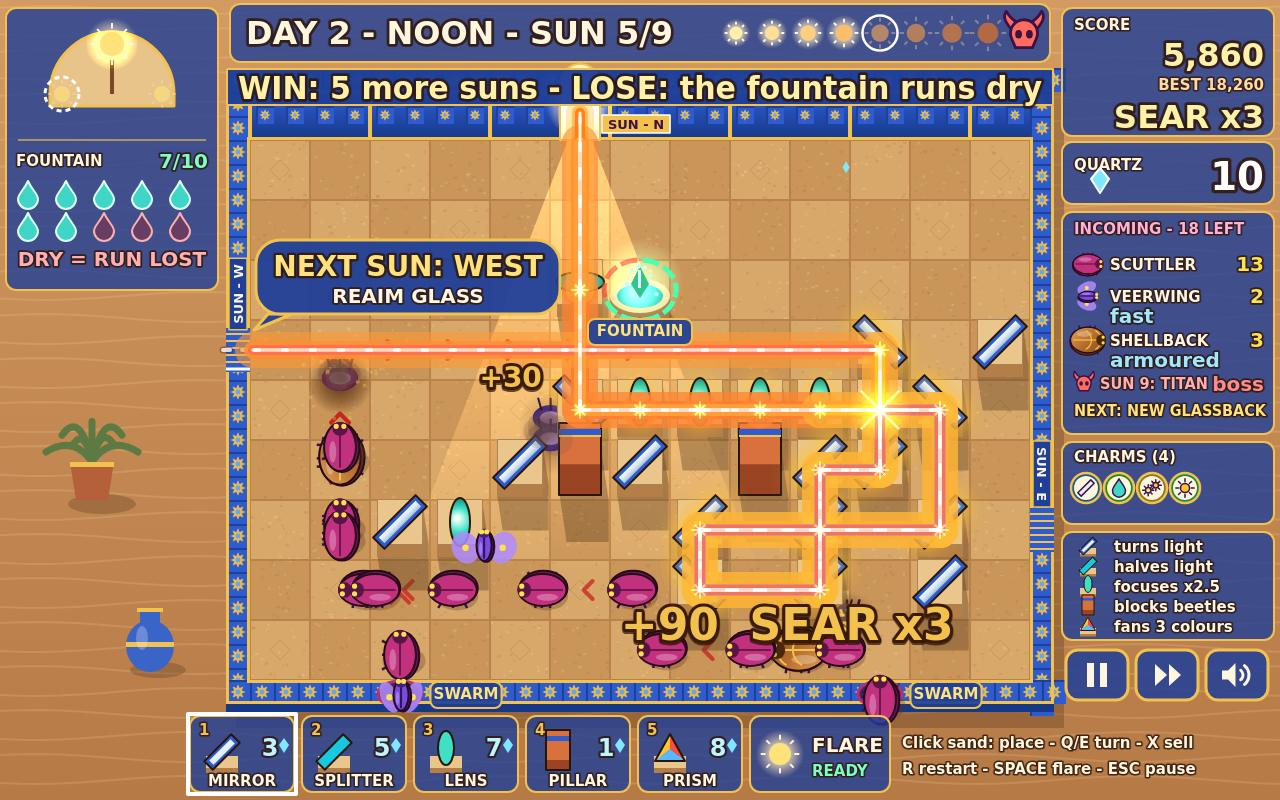
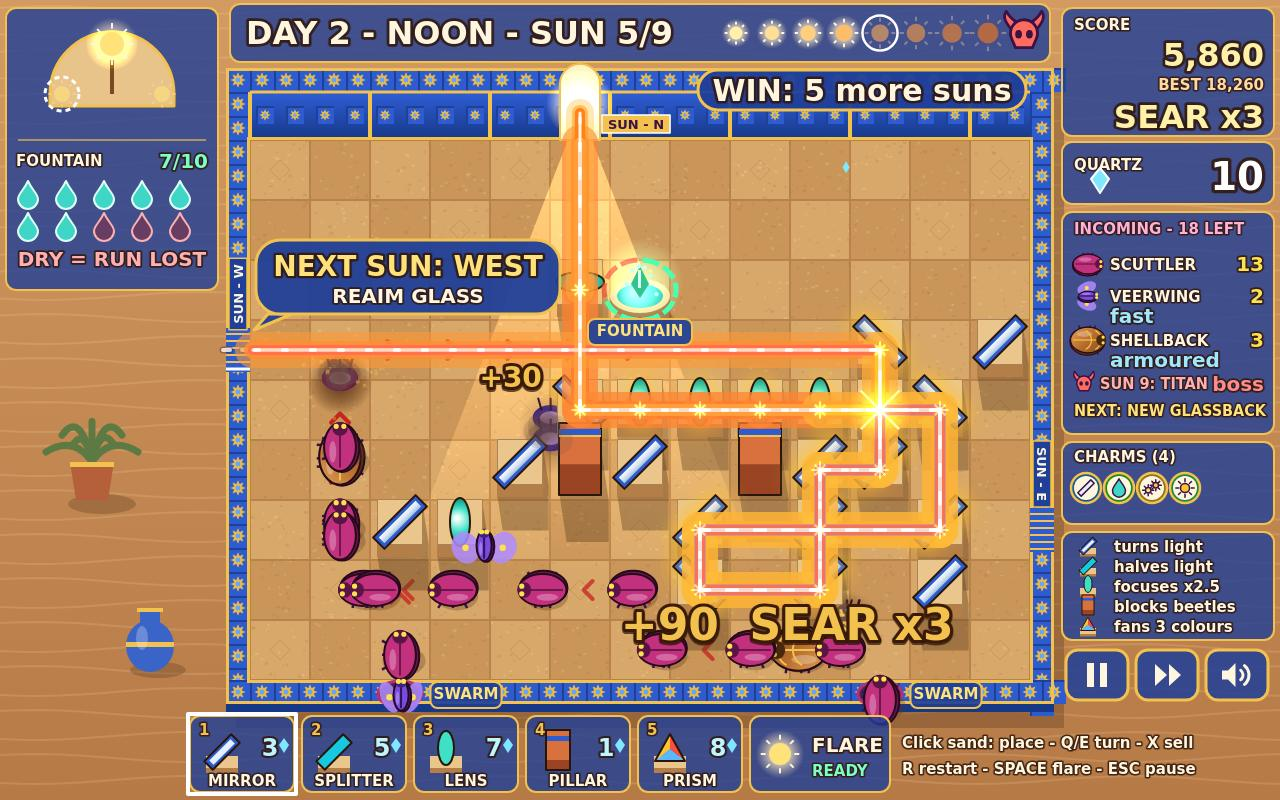
Cover: WIN/LOSE frieze becomes a WIN: n more suns pill on the top wall, clear of the live gate (lose rule stays as DRY = RUN LOST); for the A/B

Changed region(s): [[0.1562, 0.0625, 0.8438, 0.1562]]

diff --git a/game/src/render/hud.js b/game/src/render/hud.js
@@ -7,7 +7,7 @@ import { boonById } from '../draft.js';
 import { beamModsFor } from '../beams.js';
 import { chainMultiplier, chainWindow } from '../combat.js';
 import { enemiesRemaining, liftRefund, pieceCost, pieceUnlocked } from '../sim.js';
-import { winLoseHeadline } from '../announce.js';
+import { winHeadline } from '../announce.js';
 import { sunApertureFor } from '../sun.js';
 import { nextSunPreview, waveRoster } from '../waves.js';
 import { drawEnemy } from './beetles.js';
@@ -421,17 +421,43 @@ function drawComboLine(ctx, run, x0, y) {
 }
 
 
-/** The win and lose rule, inscribed along the north wall under the banner. */
-function drawWinLoseFrieze(ctx, run) {
-  const line = winLoseHeadline(run);
-  const x = BOARD_X - WALL;
-  const w = BOARD_W + WALL * 2;
-  ctx.fillStyle = 'rgba(31,63,153,0.96)';
-  ctx.fillRect(x, 68, w, 38);
+/** The WIN pill's box as last drawn (for the screenshot checks). */
+let winPillBox = null;
+export function lastWinPill() {
+  return winPillBox;
+}
+
+/**
+ * WIN: n more suns, a pill on the north wall (<= 55% of the board wide), on the wider side of the live
+ * north gate and its SUN tag so the gate and its beam stay in view; the lose rule is DRY = RUN LOST.
+ */
+function drawWinPill(ctx, run) {
+  const str = winHeadline(run);
+  ctx.font = `900 30px ${FONT}`;
+  let w = Math.min(BOARD_W * 0.55, ctx.measureText(str).width + 32);
+  const h = 40;
+  let cx = BOARD_X + BOARD_W / 2;
+  const ap = run.aperture;
+  if (ap.wall === 'north') {
+    const gate0 = BOARD_X + ap.c * CELL - 4;
+    const gate1 = BOARD_X + (ap.c + 1) * CELL + 84;
+    const left = gate0 - BOARD_X;
+    const right = BOARD_X + BOARD_W - gate1;
+    const room = Math.max(left, right) - 8;
+    w = Math.min(w, room);
+    cx = left >= right ? gate0 - 4 - room / 2 : gate1 + 4 + room / 2;
+  }
+  const x = Math.round(cx - w / 2);
+  const y = 70;
+  ctx.fillStyle = 'rgba(31,63,153,0.94)';
+  ctx.beginPath();
+  ctx.roundRect(x, y, w, h, h / 2);
+  ctx.fill();
   ctx.strokeStyle = GOLD;
-  ctx.lineWidth = 2;
-  ctx.strokeRect(x + 1, 69, w - 2, 36);
-  fitLine(ctx, line, 640, 99, w - 24, 32, '#FFF2A8', 'center');
+  ctx.lineWidth = 3;
+  ctx.stroke();
+  fitLine(ctx, str, x + w / 2, y + 31, w - 20, 30, INK, 'center');
+  winPillBox = { x0: x, y0: y, x1: x + w, y1: y + h };
 }
 
 /**
@@ -671,7 +697,7 @@ export function hudTextBoxes() {
   return [
     { text: 'left panel', x0: LEFT_X, y0: 8, x1: LEFT_X + PANEL_W, y1: 8 + LEFT_PANEL_H },
     { text: 'sun bar', x0: top + 4, y0: 4, x1: top + BOARD_W + WALL * 2 - 4, y1: 62 },
-    { text: 'frieze', x0: top, y0: 68, x1: top + BOARD_W + WALL * 2, y1: 106 },
+    { text: 'win pill', x0: top, y0: 68, x1: top + BOARD_W + WALL * 2, y1: 112 },
     { text: 'right panels', x0: RIGHT_X, y0: 8, x1: RIGHT_X + PANEL_W, y1: 640 },
     { text: 'hotbar and keys', x0: HOTBAR_X, y0: HOTBAR.y, x1: 1200, y1: HOTBAR.y + HOTBAR.h },
     { text: 'pause, speed, sound', x0: RIGHT_X, y0: 646, x1: RIGHT_X + PANEL_W, y1: 704 },
@@ -680,7 +706,7 @@ export function hudTextBoxes() {
 
 export function drawHud(ctx, run, ui) {
   drawSunBar(ctx, run);
-  drawWinLoseFrieze(ctx, run);
+  drawWinPill(ctx, run);
   drawEventBanner(ctx, run, ui);
   drawLeftPanel(ctx, run);
   drawRightPanel(ctx, run, ui);

diff --git a/game/src/testhook.js b/game/src/testhook.js
@@ -5,14 +5,14 @@ import { ENEMIES, WAVE_COUNT } from './config.js';
 import { nextSunPreview } from './waves.js';
 import { enemiesRemaining } from './sim.js';
 import { rankFor } from './combat.js';
-import { currentBanner, winLoseHeadline } from './announce.js';
+import { currentBanner, winHeadline } from './announce.js';
 import { loadHistory } from './save.js';
 import { audioProbe } from './audio.js';
 import { squeezeReport } from './render/fit.js';
 import { bannerLayout } from './render/banner.js';
 import { propBoxes, propsVisible } from './render/board.js';
 import { buildIconCount } from './render/results.js';
-import { hudTextBoxes } from './render/hud.js';
+import { hudTextBoxes, lastWinPill } from './render/hud.js';
 import { boardTagOverlaps, boardTextBoxes, boxTouchesBeam, drawnStarbursts } from './render/fx.js';
 
 /** Props (palms, urns) drawn this frame whose box touches HUD text or a visible overlay's text. */
@@ -212,7 +212,8 @@ export function installTestHook(app, api) {
         kills: run.stats.kills,
         banner: currentBanner(run),
         bannerBox: bannerBox(run),
-        headline: winLoseHeadline(run),
+        winPill: lastWinPill(),
+        headline: winHeadline(run),
         log: run.log.join(' | '),
         sunsHeld: run.stats.wavesCleared,
         offersSeen: run.stats.offersSeen,

diff --git a/game/src/announce.js b/game/src/announce.js
@@ -66,10 +66,10 @@ export function titleRules() {
   ];
 }
 
-/** The run's win and lose conditions with the real count of suns still to hold (current included). */
-export function winLoseHeadline(run) {
+/** The win rule with the real count of suns still to hold (current included); DRY = RUN LOST says the lose rule. */
+export function winHeadline(run) {
   const left = WAVE_COUNT - run.stats.wavesCleared;
-  return `WIN: ${left} more ${left === 1 ? NAMES.sun.toLowerCase() : NAMES.suns.toLowerCase()} - LOSE: the ${NAMES.fountainShort.toLowerCase()} runs dry`;
+  return `WIN: ${left} more ${left === 1 ? NAMES.sun.toLowerCase() : NAMES.suns.toLowerCase()}`;
 }
 
 /** The banner shown now: a fresh event, else advice about the next sun. */

diff --git a/NOTES.md b/NOTES.md
@@ -326,6 +326,12 @@
   the same mirror the greedy bot would; seed 2013's sun 5 never has more than 1 lit live beetle (beetles
   in the light die within about a second), so no cover tick with >= 3. Both flags off by default.
 
+- Bench7 item 6 (needs the operator's A/B vs 9052725 before shipping): the full-width WIN/LOSE frieze
+  is a pill on the north wall, `WIN: 5 more suns` (announce.winHeadline, 30 px cream), <= 55% of the
+  board, on the wider side of the live north gate and its SUN tag (cover: 698-1026, gate 546-694);
+  the lose rule stays as DRY = RUN LOST. The top wall and the N gate show again. check-shot-truth:
+  width and clear of the gate; the drawn box is read after the frames render.
+
 ## Next
 - READY FOR A/B (01:00 UTC): bold beams + the three cues on top of 61673e1 (FEATS, GLASS legend,
   INCOMING tags, HUD buttons, SUNSTONE chip, title rules table kept). Verified on the final state:
